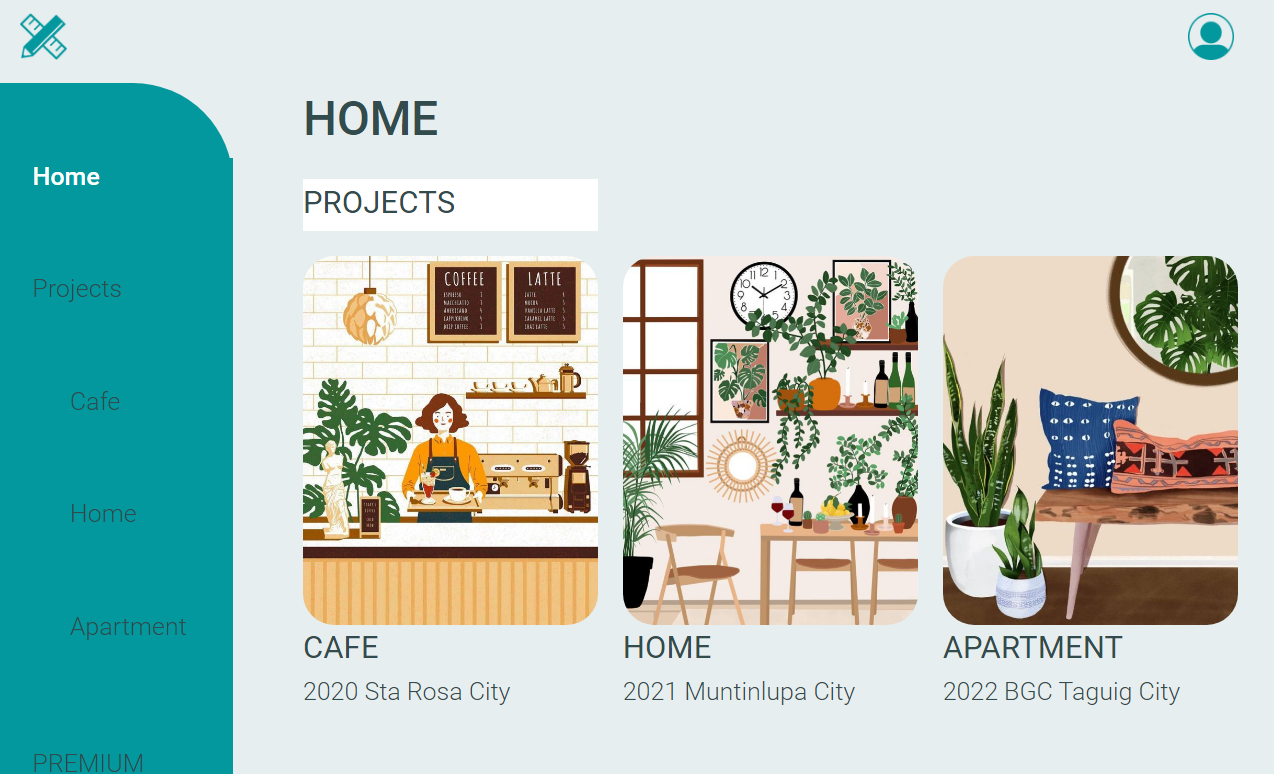
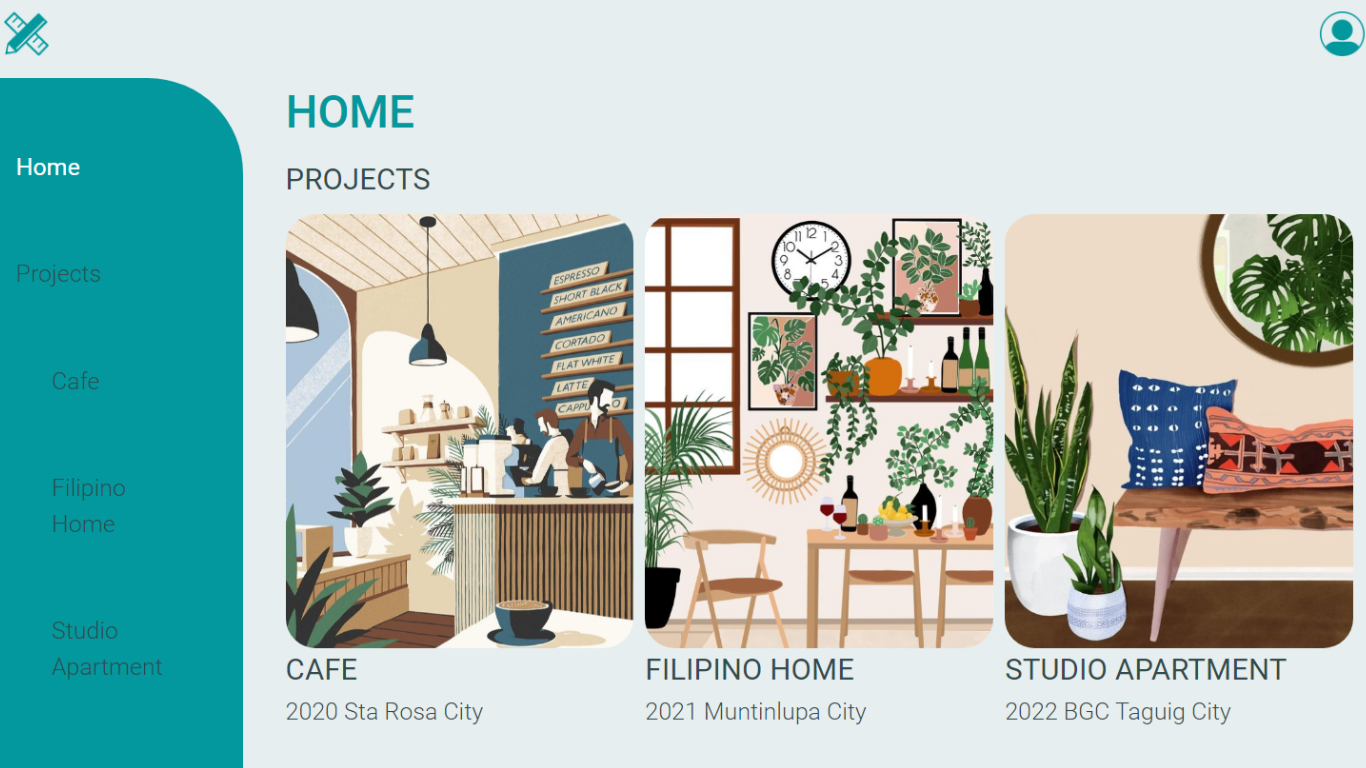
fixed card responsiveness

diff --git a/src/pages/Projects.js b/src/pages/Projects.js
@@ -10,70 +10,65 @@ import Spec from '../Images/spec.png'
 
 export default function Projects(){
   return(
-    <div class="container-fluid min-vh-75 min-vw-100 d-flex justify-content-center text-center pb-5">
-      <div class="row">
-        <div class="col-12">
+    <div class="projects d-flex justify-content-center">
+      <div class="d-flex flex-column text-center pb-5 px-0">
         <Fade delay={500}>
-          <h1 class="pb-5"><span class="sectionText">Projects</span></h1>
+          <h1 class="d-flex justify-content-center mb-0"><span class="sectionText">Projects</span></h1>
         </Fade>
 
-       <Row class="d-flex flex-column flex-md-row" xs={1} md={3}>
-              {/*Project 1*/}
-               <Card className="projCard mx-md-1 mx-lg-3 mx-xl-5 h-100 mb-5 px-0">
-                <Link to={"/portfoliopage"}>
-                 <Card.Img variant="top" src={Portfolio} />
-                </Link>
-                 <Card.Body className="d-flex flex-column">
-                   <Card.Title className="projectHead">Personal Website</Card.Title>
-                   <Card.Subtitle className="my-2 text-muted">This is the second iteration of the personal portfolio I made during coding bootcamp. From a static site, I turned my portfolio into a React app </Card.Subtitle>
-                   <div className="mt-auto">
-                    <Link to={"/portfoliopage"}>
-                     <Card.Body>Details</Card.Body>
-                    </Link>
-                    <Card.Link href="https://dyatco.github.io/portfolio">Link</Card.Link>
-                   </div>
-                 </Card.Body>
-               </Card>
+       <div class="d-flex flex-column flex-md-row justify-content-center">
+        {/*Project 1*/}
+         <Card className="me-md-3 mb-3 border-0">
+          <Link to={"/portfoliopage"}>
+           <Card.Img variant="top" src={Portfolio} />
+          </Link>
+           <Card.Body>
+             <Card.Title className="projectHead">Personal Website</Card.Title>
+             <Card.Subtitle className="my-3 text-muted">This is the second iteration of the personal portfolio I made during coding bootcamp. From a static site, I turned my portfolio into a React app </Card.Subtitle>
+             <div class="d-flex justify-content-center mt-auto">
+              <Link to={"/portfoliopage"} >
+               <Card.Body className="p-0 pe-3">Details</Card.Body>
+              </Link>
+              <Card.Link href="https://dyatco.github.io/portfolio">Link</Card.Link>
+              </div>
+           </Card.Body>
+         </Card>
             
-             {/*Project 2*/}
-             <>
-              <Card className="projCard mx-md-1 mx-lg-3 mx-xl-5 h-100 mb-5 px-0">
+         {/*Project 2*/}
+          <Card className="projectCard mb-3 border-0">
+            <Link to={"/portfoliopage"}>
+            <Card.Img variant="top" src={TileCalc} />
+            </Link>
+            <Card.Body className="d-flex flex-column">
+              <Card.Title className="projectHead">Tile Calculator</Card.Title>
+              <Card.Subtitle className="my-3 text-muted">I built this app to help those who need to find out how many tiles they need to fill a floor area. </Card.Subtitle>
+              <div class="d-flex justify-content-center mt-auto">
                 <Link to={"/portfoliopage"}>
-                <Card.Img variant="top" src={TileCalc} />
+                 <Card.Body className="p-0 pe-3">Details</Card.Body>
                 </Link>
-                <Card.Body className="d-flex flex-column">
-                  <Card.Title className="projectHead">Tile Calculator</Card.Title>
-                  <Card.Subtitle className="my-2 text-muted">I built this app to help those who need to find out how many tiles they need to fill a floor area. </Card.Subtitle>
-                  <div className="mt-auto">
-                    <Link to={"/portfoliopage"}>
-                     <Card.Body>Details</Card.Body>
-                    </Link>
-                    <Card.Link target="_blank" href="https://dyatco.github.io/tileCalc">Link</Card.Link>
-                  </div>
-                </Card.Body>
-              </Card>
-              </>
+                <Card.Link target="_blank" href="https://dyatco.github.io/tileCalc">Link</Card.Link>
+              </div>
+            </Card.Body>
+          </Card>
 
-            {/*Project 3*/}
-               <Card className="projCard mx-md-1 mx-lg-3 mx-xl-5 h-100 mb-5 px-0">
-                <Link to={"/portfoliopage"}>
-                 <Card.Img variant="top" src={SpecSheet} />
-                </Link>
-                 <Card.Body className="d-flex flex-column">
-                   <Card.Title className="projectHead">Specifications Sheets</Card.Title>
-                   <Card.Subtitle className="my-2 text-muted">This project is a responsive interface for a tool that helps interior designers  keep track of their projects</Card.Subtitle>
-                   <div className="mt-auto">
-                     <Link to={"/portfoliopage"}>
-                      <Card.Body>Details</Card.Body>
-                     </Link>
-                     <Card.Link target="_blank" href="https://dyatco.github.io/specSheets">Link</Card.Link>
-                   </div>
-                 </Card.Body>
-               </Card>
-          </Row>
-
-  </div>
+          {/*Project 3*/}
+             <Card className="ms-md-3 mb-3 border-0">
+              <Link to={"/portfoliopage"}>
+               <Card.Img variant="top" src={SpecSheet} />
+              </Link>
+               <Card.Body className="d-flex flex-column">
+                 <Card.Title className="projectHead">Specifications Sheets</Card.Title>
+                 <Card.Subtitle className="my-3 text-muted">This project is a responsive interface for a tool that helps interior designers  keep track of their projects</Card.Subtitle>
+                 <div class="d-flex justify-content-center mt-auto">
+                   <Link to={"/portfoliopage"}>
+                    <Card.Body className="p-0 pe-3">Details</Card.Body>
+                   </Link>
+                   <Card.Link target="_blank" href="https://dyatco.github.io/specSheets">Link</Card.Link>
+                 </div>
+               </Card.Body>
+             </Card>
+          </div>
+        </div>
 </div>
-  </div>
   )
 }

diff --git a/src/App.css b/src/App.css
@@ -54,10 +54,6 @@ html, body {
   font-size: 32px;
   color: #023038;
 }
-.projectTools{
-  color: #03989e;
-  font-size: 28px;
-}
 
 /*Navbar*/
 nav {
@@ -160,15 +156,15 @@ h5{
 }
 
 /*PROJECTS*/
-.projCard{
-  width: 18rem;
+.projects{
+  margin-left: 80px;
+  margin-right: 80px;
 }
+
 a:link, a:visited, a:hover, a:active {
   text-decoration: none;
   color: #FFB15B;
-  
 }
-
 .projectPage{
   min-height: 100vh;
   padding: 80px;
@@ -197,22 +193,20 @@ h2+p, h2+ul, .projectDescPhoto{
   float: left;
   margin-right: 3px;
   padding-left: 10px;
-  }
-
+}
 .contactContainer{
   display: flex;
   justify-content: center;
 }
-
 .contactCol1{
   display: flex;
   width: 90%;
 }
 .contactText{
-    display: flex;
-    justify-content: center;
-    text-align: start;
-  }
+  display: flex;
+  justify-content: center;
+  text-align: start;
+}
 .emailForm{
   min-width: 50vw;
   display: flex;
@@ -237,9 +231,6 @@ h2+p, h2+ul, .projectDescPhoto{
 @media only screen and (max-width: 1024px){
   .pText, .aboutText{
     font-size: 20px;
-  }
-  .projCard{
-  width: 16rem;
   }
   .button{
   font-size: 16px;
